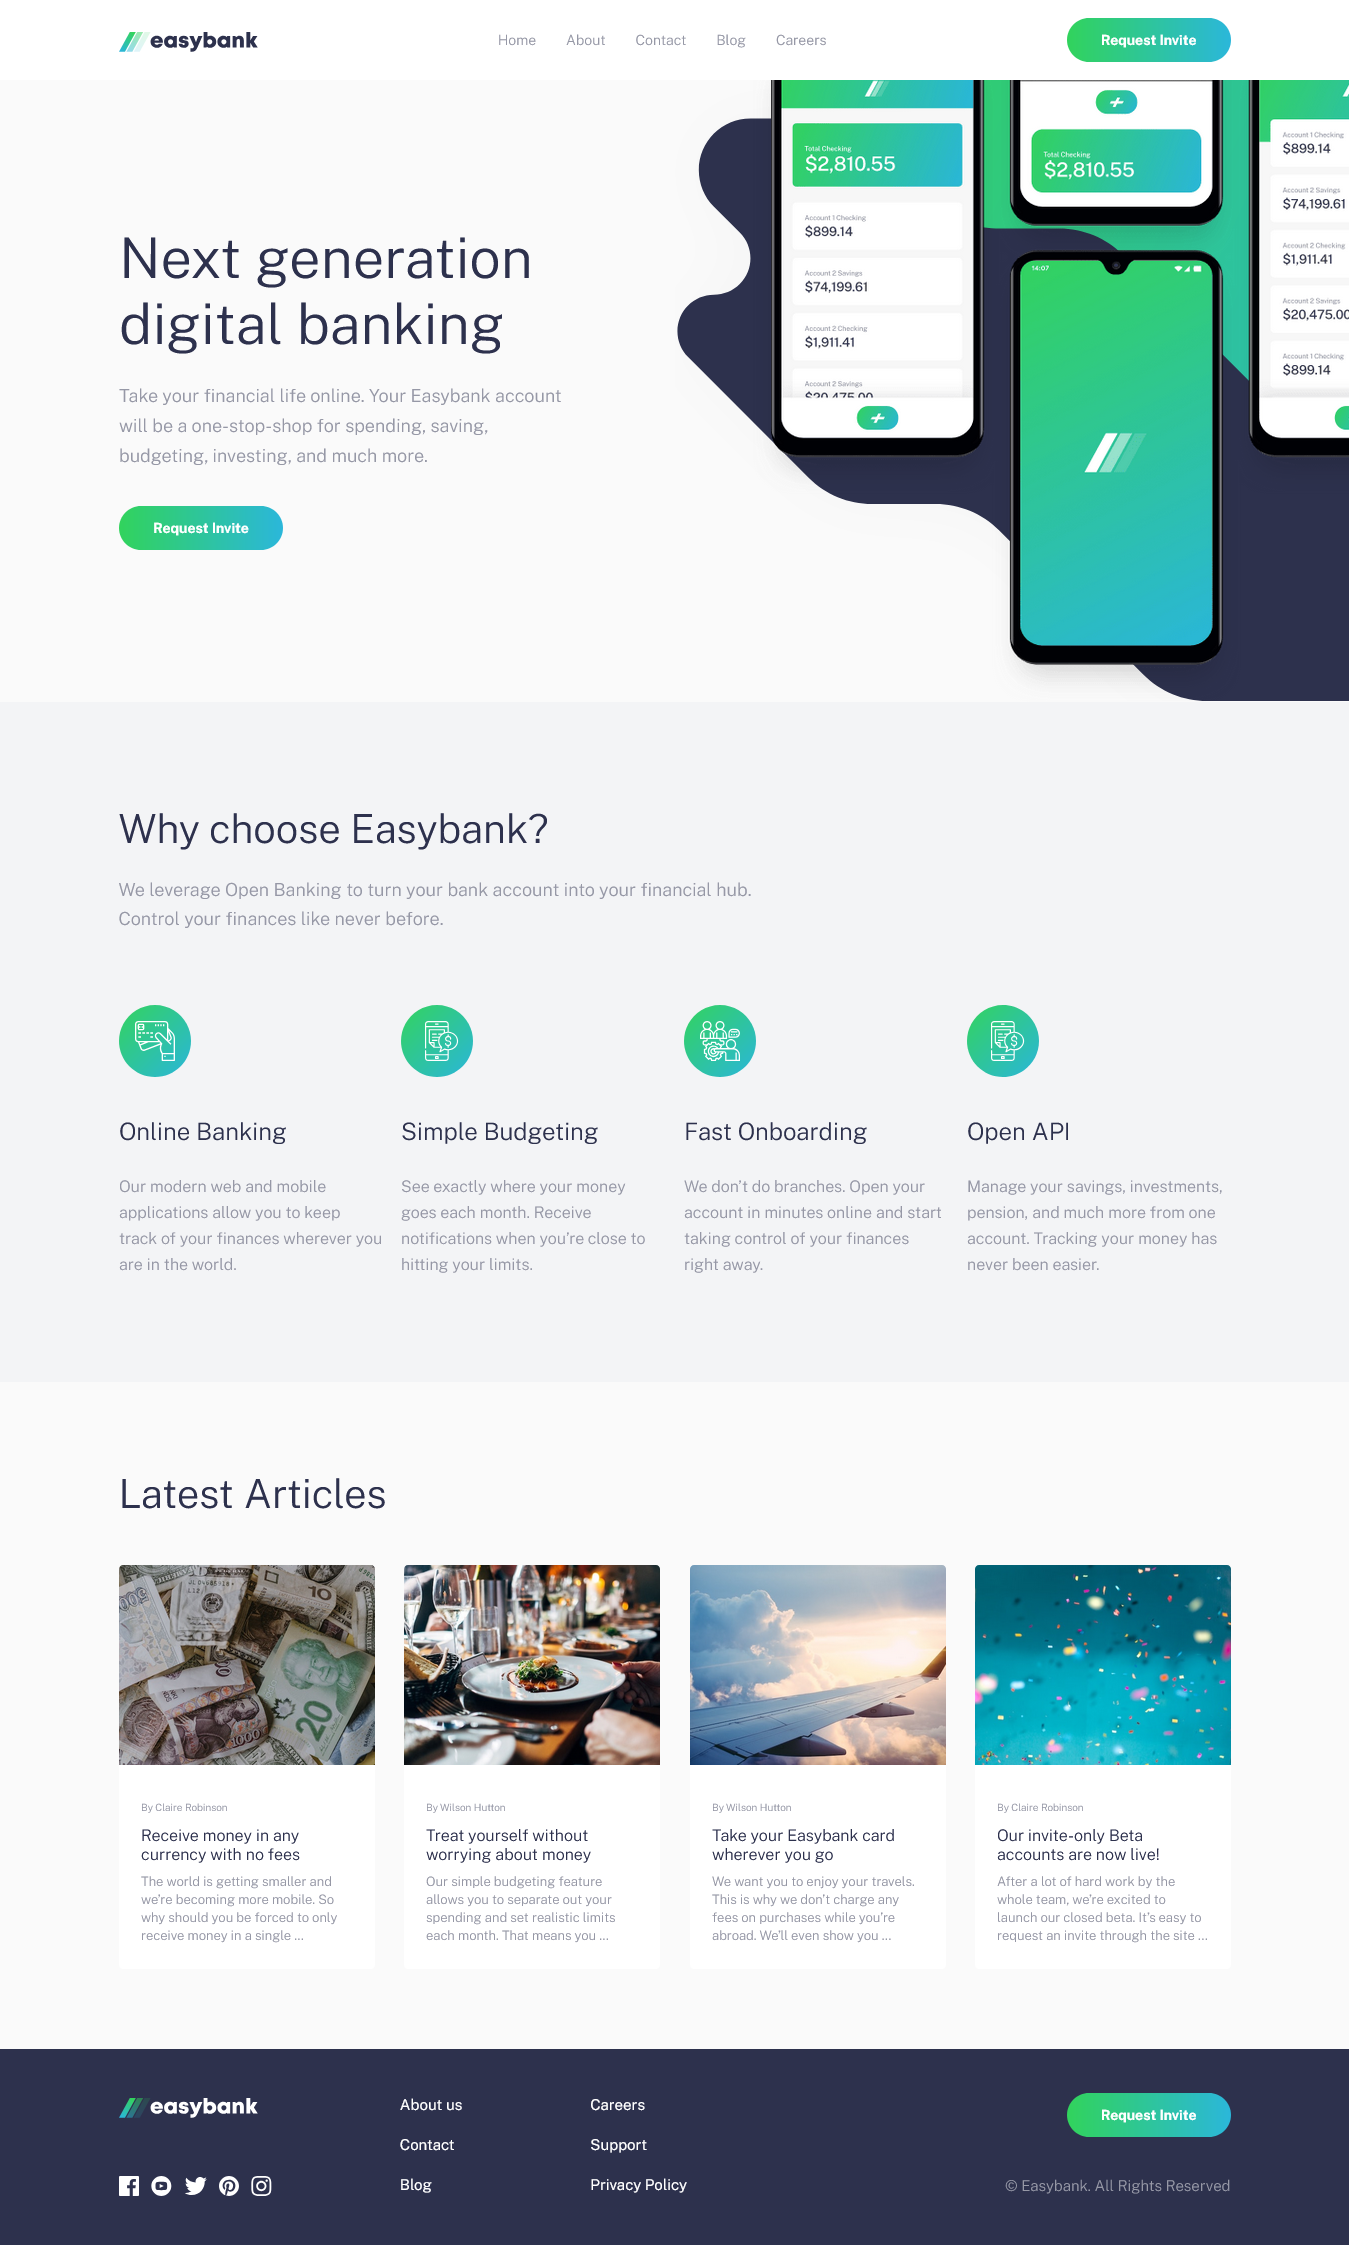
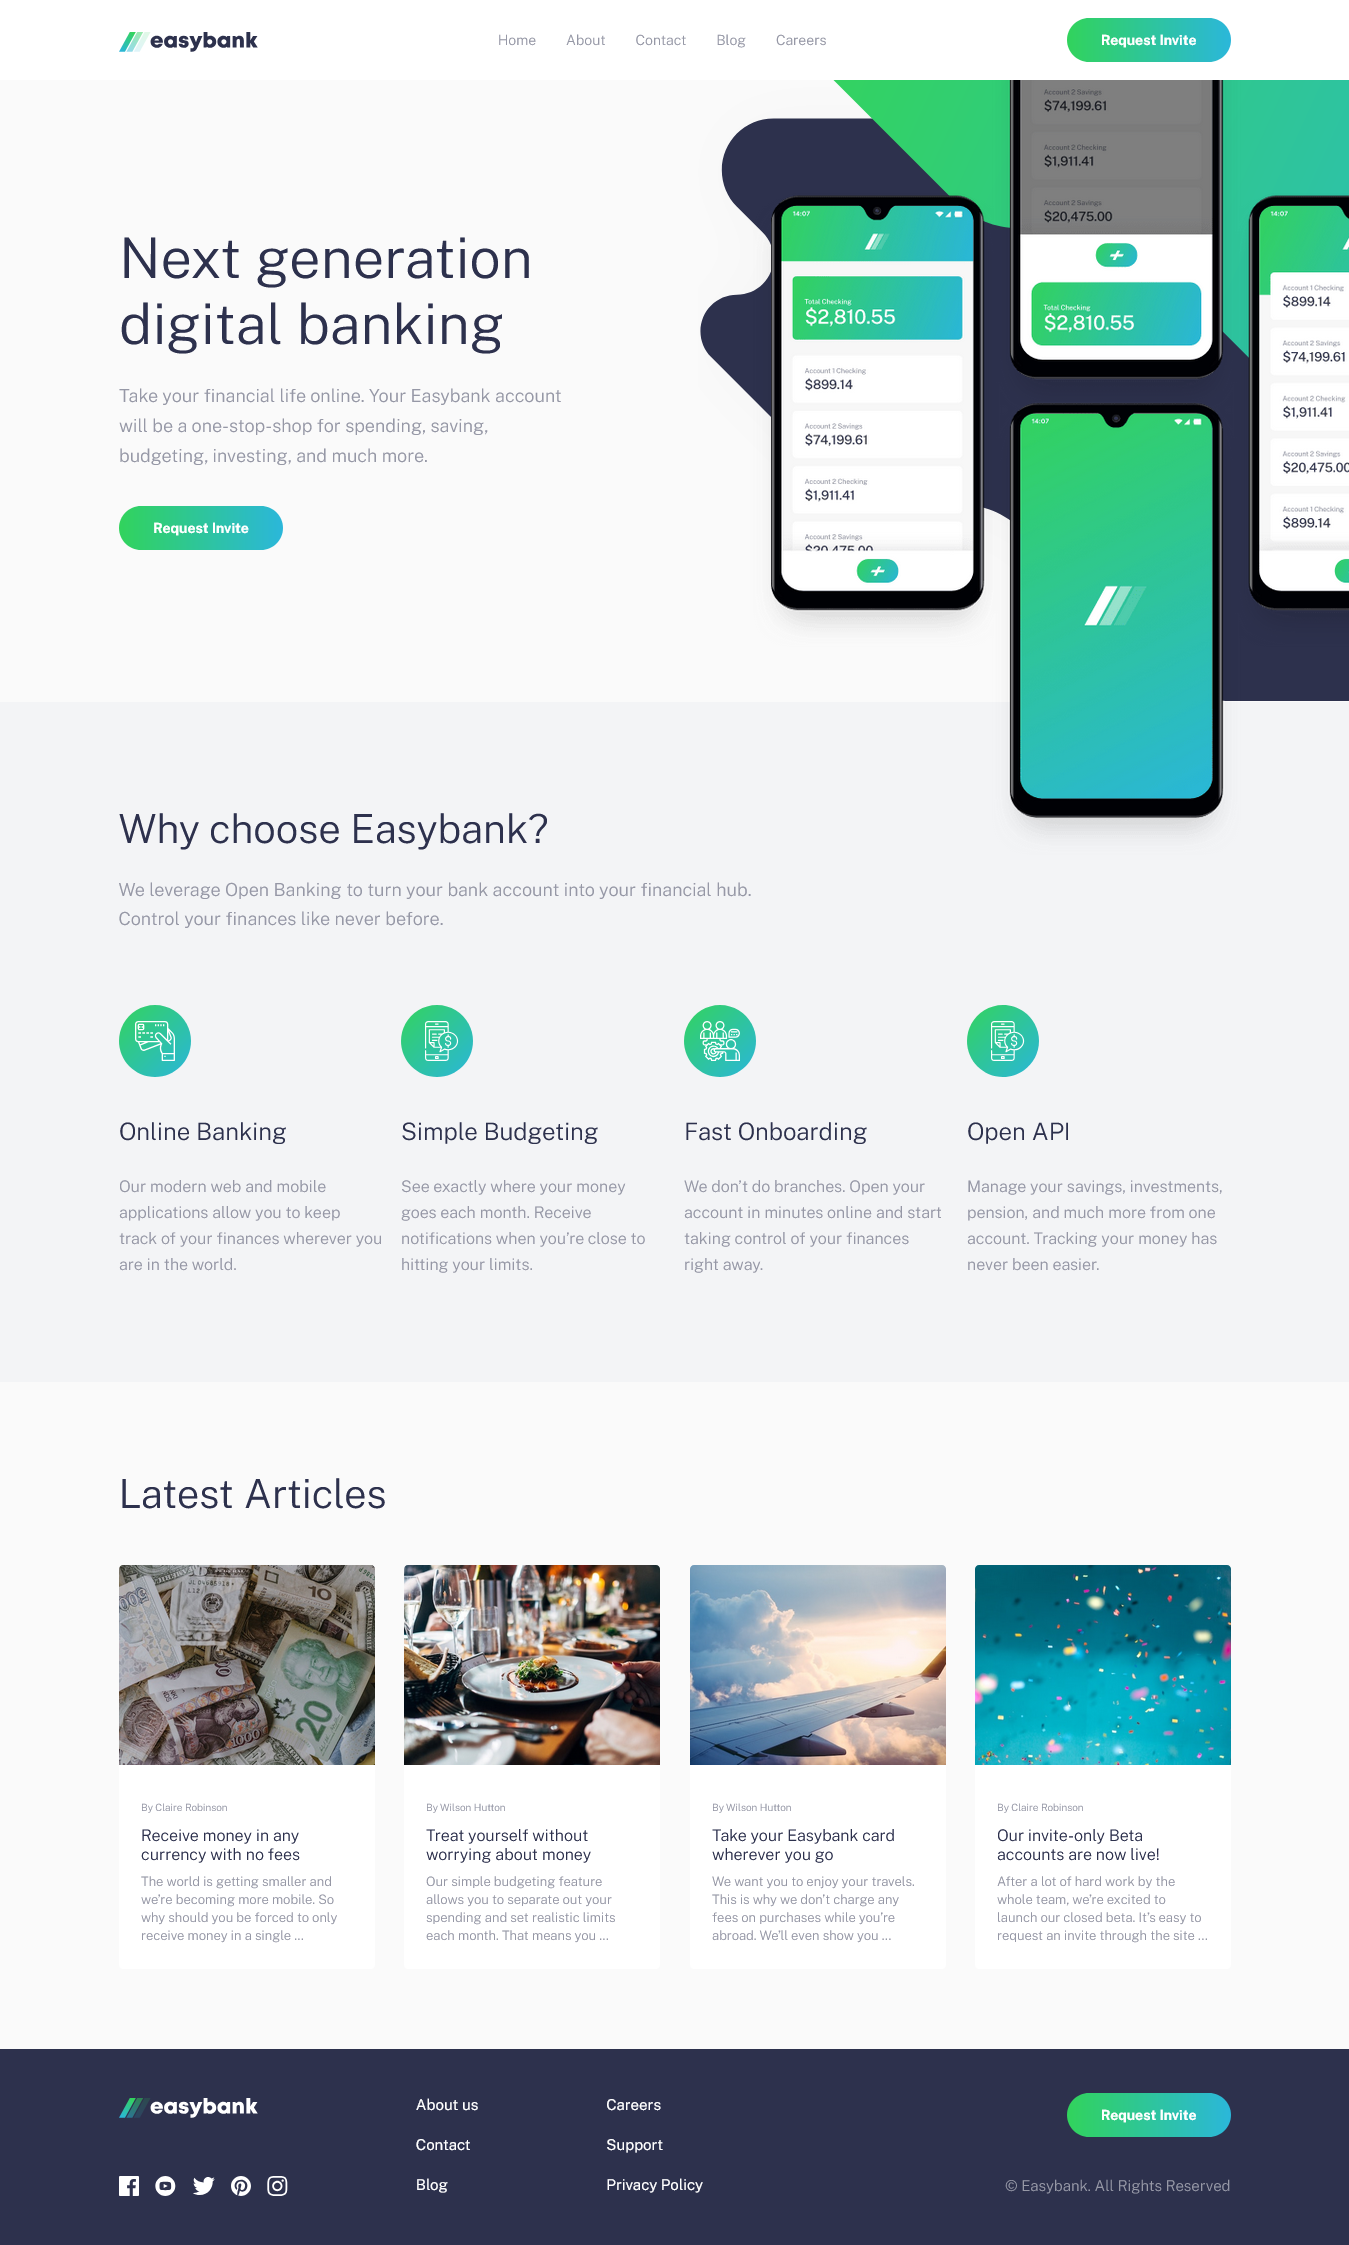
Fix intro illustrations layout

diff --git a/scss/parts/_intro.scss b/scss/parts/_intro.scss
@@ -5,7 +5,7 @@
 
 .intro {
   position: relative;
-  overflow-x: hidden;
+  overflow-x: clip;
 
   &__layout {
     display: flex;
@@ -124,12 +124,13 @@
 
   &__illustration-bg {
     --illustration-bg-offset-x: 0;
+    --illustration-bg-translate-x: calc(50% - var(--illustration-bg-offset-x));
 
     width: 100%;
     height: 100%;
     object-fit: cover;
     object-position: bottom right;
-    transform: translateX(calc(50% - var(--illustration-bg-offset-x)));
+    transform: translateX(var(--illustration-bg-translate-x));
     opacity: 0;
 
     @include rwd.min-breakpoint-mediaquery("lg") {
@@ -147,12 +148,14 @@
 
   &__illustration-mockups {
     --illustration-mockups-offset-y: 4.15%;
+    --illustration-translate-y: calc(
+      -25% + var(--illustration-mockups-offset-y)
+    );
 
     position: absolute;
     bottom: 0;
     left: 50%;
-    transform: translateX(-50%)
-      translateY(calc(-25% + var(--illustration-mockups-offset-y)));
+    transform: translateX(-50%) translateY(var(--illustration-translate-y));
     opacity: 0;
     width: min(91.75%, fns.px-to-rem(514));
 
@@ -162,8 +165,7 @@
       width: auto;
       height: 143.29%;
       left: 11.66%;
-      transform: translateX(0)
-        translateY(calc(-25% + var(--illustration-mockups-offset-y)));
+      transform: translateX(0) translateY(var(--illustration-translate-y));
     }
   }
 }

diff --git a/js/main.js b/js/main.js
@@ -102,12 +102,12 @@ const illustrationTl = gsap.timeline({
 });
 illustrationTl
   .to(".intro__illustration-bg", {
-    x: "var(--illustration-mockups-offset-y)",
+    "--illustration-bg-translate-x": "var(--illustration-bg-offset-x)",
     opacity: 1,
     duration: 0.15,
   })
   .to(".intro__illustration-mockups", {
-    y: "var(--illustration-mockups-offset-y)",
+    "--illustration-translate-y": "var(--illustration-mockups-offset-y)",
     opacity: 1,
     duration: 0.5,
   });

diff --git a/scss/_global.scss b/scss/_global.scss
@@ -22,7 +22,6 @@ body {
   font-family: var(--body-font-family);
   color: var(--neutral-color-300);
   background: var(--neutral-color-50);
-  overflow-x: hidden;
   font-weight: 300;
 }
 
@@ -61,4 +60,8 @@ a {
 
 button {
   cursor: pointer;
+}
+
+main {
+  overflow-y: clip;
 }
